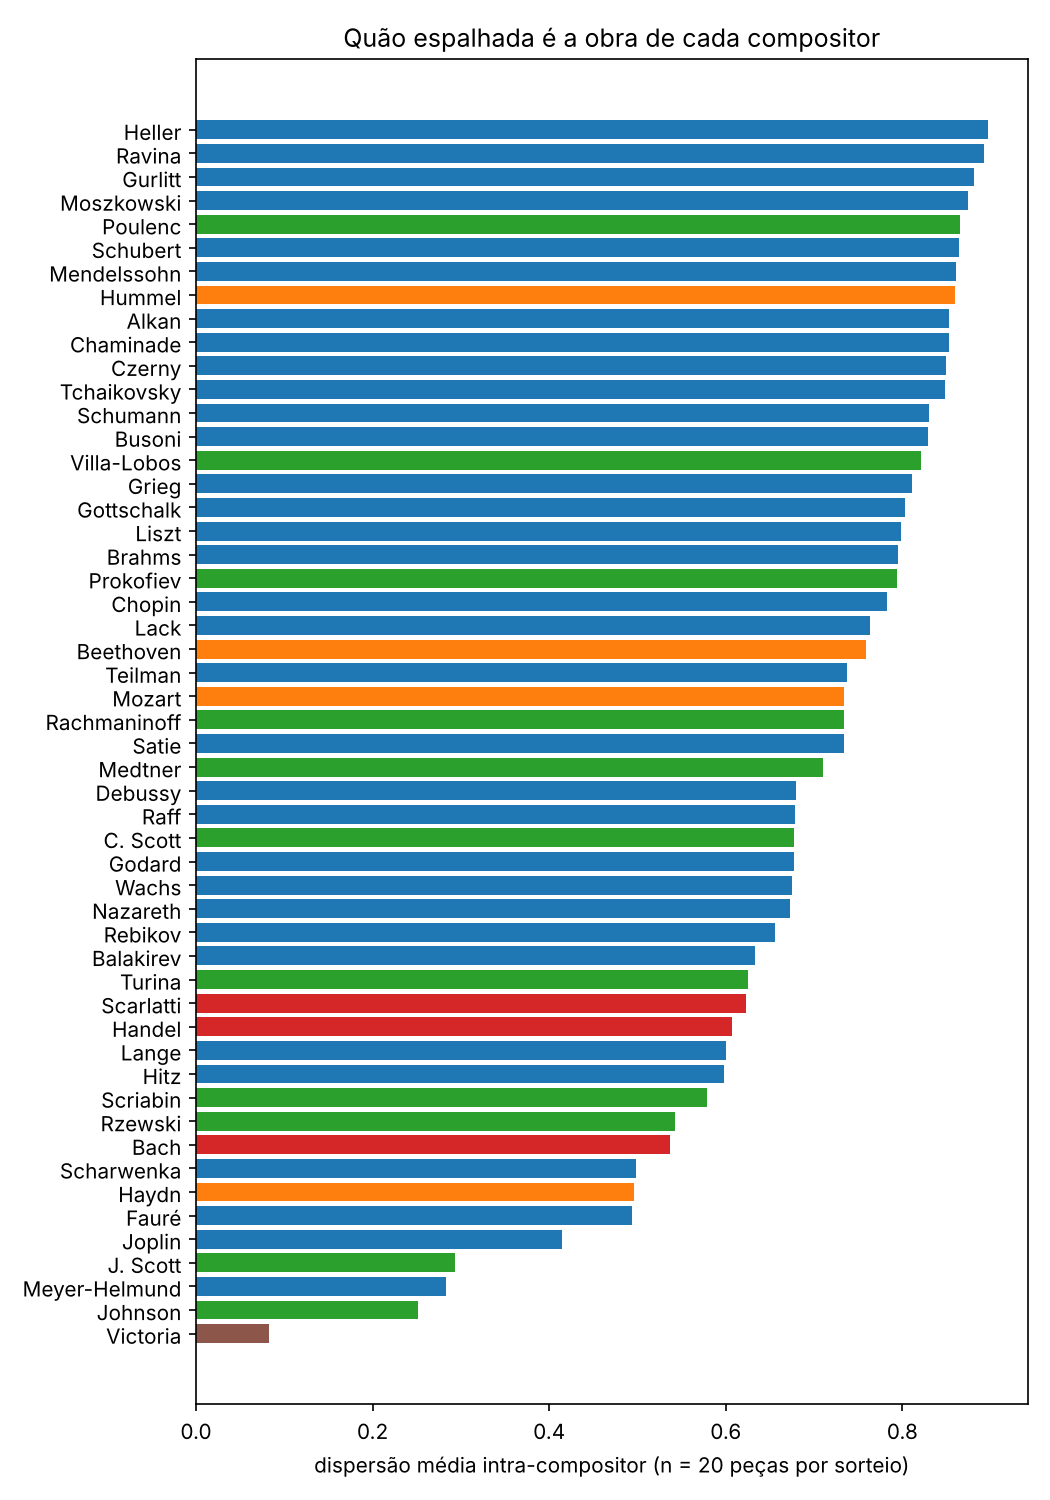
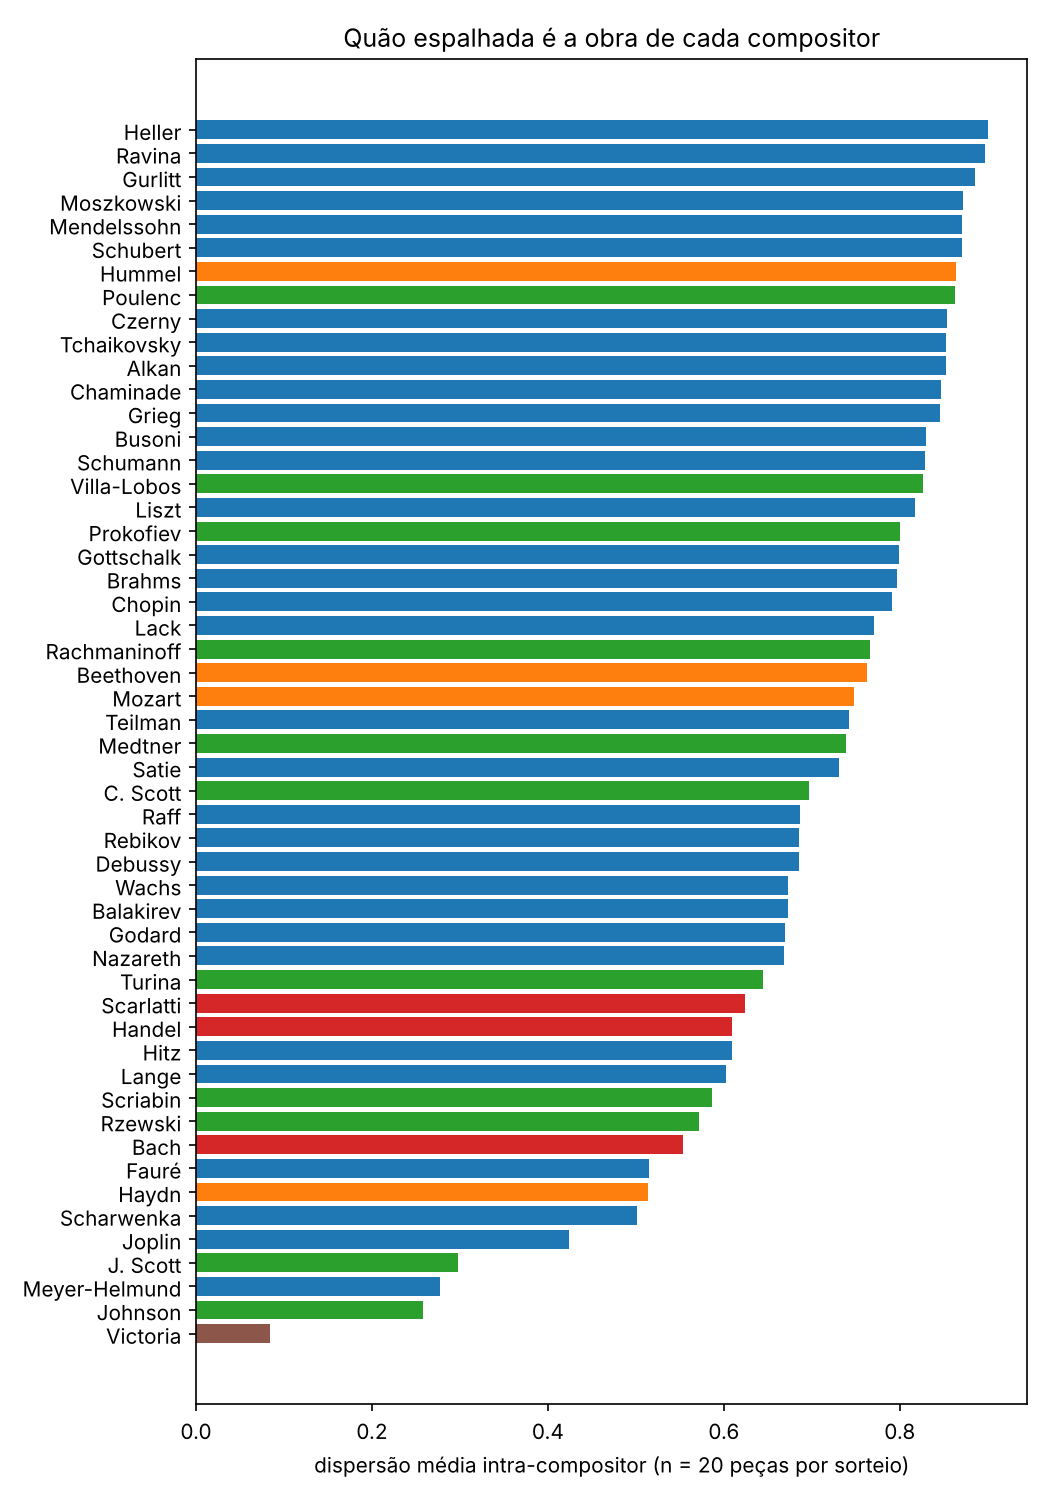
F4 refeita com base fixa de 2 janelas (CV_WINDOWS)
Claude-Session: https://claude.ai/code/session_01Xf7oPKv58X1QvXpsH5kXF3

diff --git a/analysis/common/emb.py b/analysis/common/emb.py
@@ -17,8 +17,10 @@ def load_meta() -> pd.DataFrame:
     return pd.read_csv(ROOT / "analysis" / "data" / "metadata_curated.csv")
 
 
-def load(layer: int, pooling: str = "mean", windows=(1, 2, 3), include_extra=False):
+def load(layer: int, pooling: str = "mean", windows=None, include_extra=False):
     """Retorna (X [n_janelas, 768] float32, df com piece_id, composer_key, window, loss)."""
+    if windows is None:  # base de janelas fixada por ambiente (ex.: CV_WINDOWS=1,2)
+        windows = tuple(int(w) for w in os.environ.get("CV_WINDOWS", "1,2,3").split(","))
     rows, vecs = [], []
     for f in sorted(EMB_DIR.glob("*.npz")):
         w = int(f.stem.rsplit("__w", 1)[1])
